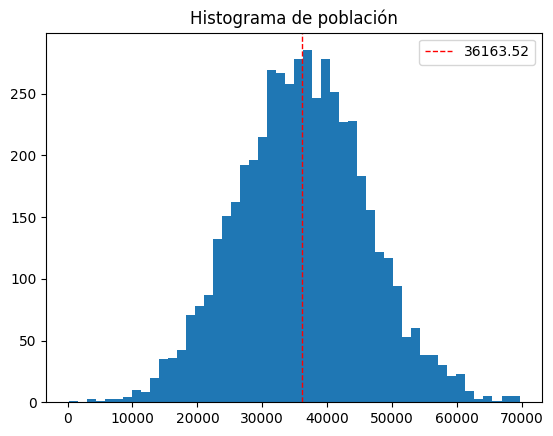
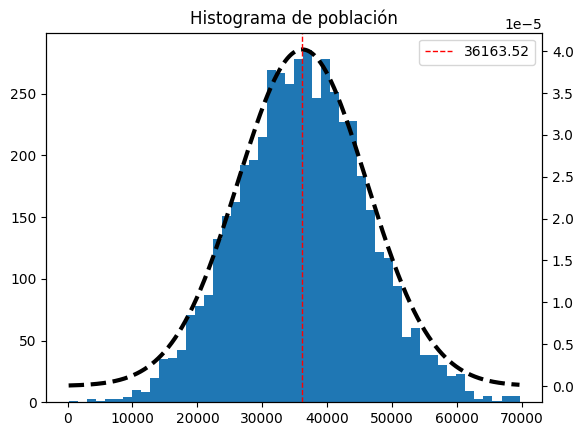
intento 2

diff --git a/funciones.py b/funciones.py
@@ -12,7 +12,7 @@ print('\n')
 #Vamos a traducir las columnas, es decir, vamos a cambiar sus nombres para que nos sea más fácil trabajar con ellas
 print('--------------Traducción de las columnas----------------')
 df.rename(columns= {'Price': 'precio', 'Address': 'direccion', 'Avg. Area Income': 'media salario', 'Avg. Area House Age':
-    'media antugüedad casas', 'Avg. Area Number of Rooms': 'media número habitaciones', 'Avg. Area Number of Bedrooms': 'media número dormitorios por casa', 'Area Population':'población'}, inplace=True)
+    'media antigüedad casas', 'Avg. Area Number of Rooms': 'media número habitaciones', 'Avg. Area Number of Bedrooms': 'media número dormitorios por casa', 'Area Population':'población'}, inplace=True)
 print(df.columns)
 
 print('\n')
@@ -37,7 +37,7 @@ el número de valores de cada columna y si son nulos.
 print('\n')
 print('----------Clasificación de las variables--------------')
 print('Variables categóricas: dirección')
-print('Variables numéricas: precio, media salario, media antugüedad casas, media número habitaciones,media número dormitorios por casa, población')
+print('Variables numéricas: precio, media salario, media antigüedad casas, media número habitaciones,media número dormitorios por casa, población')
 '''
 Esta clasificación la haremos basándonos en la información que nos ha dado el .info().
 Las variables categóricas son todas aquellas que no son numéricas, es decir, que nos dan una descripción mediante palabras o símbolos.
@@ -81,9 +81,9 @@ Calculamos unos datos estadísticos de cada columna para que nos facilite la com
 y nos proporcione más información
 '''
 def histograma(variable, media, desviacion_tipica, varianza):
-    min = df[[variable]].min()
-    max = df[[variable]].max()
-    x = np.arange(min, max, 100)
+    min = df[variable].min()
+    max = df[variable].max()
+    x = np.arange(min, max, 10)
     f = 1/(desviacion_tipica * np.sqrt(2*np.pi)) * np.exp(-(x - media) ** 2/(2 * varianza))
     fig, ax1 = plt.subplots()
     ax1.hist(df[variable], bins= 50)
@@ -102,7 +102,7 @@ una campana de Gauss.
 
 '''
 
-numericVar = ['precio', 'media salario', 'media antugüedad casas', 'media número habitaciones','media número dormitorios por casa', 'población']
+numericVar = ['precio', 'media salario', 'media antigüedad casas', 'media número habitaciones','media número dormitorios por casa', 'población']
 for n in numericVar:
     media = round(calculomedia(n), 2)
     varianza = round(calculovarianza(n, media), 2)
